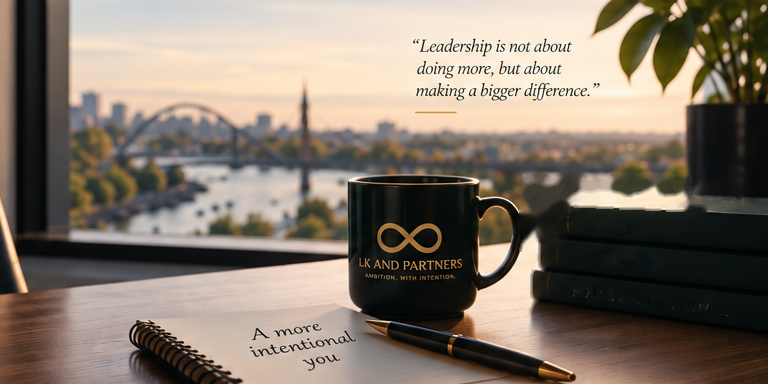
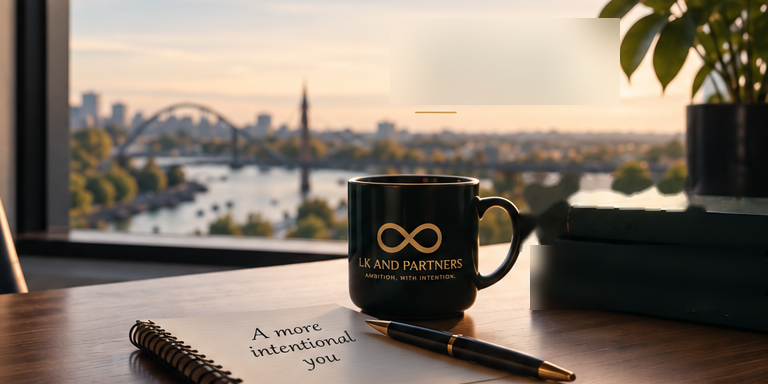
Add files via upload

Changed region(s): [[0.5312, 0.0312, 0.8125, 0.2812], [0.6875, 0.625, 0.7188, 0.8125]]

diff --git a/home.css b/home.css
@@ -1,3 +1,11 @@
 :root{--green:#0b332c;--gold:#d0a14b;--cream:#f5f0e6;--ink:#142823;--line:#ddd4c5}*{box-sizing:border-box}body{margin:0;color:var(--ink);background:#faf7f0;font-family:Arial,Helvetica,sans-serif}a{color:inherit}.header{height:64px;background:#fff;display:flex;align-items:center;padding:0 5%;justify-content:space-between;border-bottom:1px solid #eee}.logo{width:330px;display:block;overflow:visible}.logo img{display:block;width:100%;height:auto}.header nav{display:flex;align-items:center;gap:26px;font-size:12px}.header nav a{text-decoration:none;white-space:nowrap}.header nav .active{color:#b27d27;border-bottom:2px solid var(--gold);padding-bottom:7px}.header nav .work{background:var(--green);color:white;padding:12px 20px}.menu{display:none;border:0;background:transparent;font-size:24px}.hero{height:305px;position:relative;background:url('assets/hero-office.png') center 54%/cover no-repeat;overflow:hidden}.heroShade{position:absolute;inset:0;background:linear-gradient(90deg,rgba(4,39,33,.88) 0%,rgba(4,39,33,.79) 22%,rgba(4,39,33,.54) 38%,rgba(4,39,33,.20) 52%,rgba(4,39,33,0) 66%)}.heroText{position:relative;z-index:2;color:white;padding:28px 5%;width:72%}.heroQuote{position:absolute;z-index:2;right:6%;top:26px;margin:0;color:#142823;font-family:Georgia,'Times New Roman',serif;font-style:italic;font-size:16px;line-height:1.28;text-align:left;text-shadow:0 1px 10px rgba(255,255,255,.5)}.heroQuote:after{content:"";display:block;width:46px;border-bottom:2px solid var(--gold);margin-top:9px}.kicker{font-size:10px;font-weight:700;letter-spacing:1.7px;color:var(--gold)}h1,h2,.tag,.benefits{font-family:Georgia,'Times New Roman',serif}.hero h1{margin:7px 0 7px;font-weight:400;font-size:50px;line-height:.94;letter-spacing:-1.3px;white-space:nowrap}.hero h1 span{color:white}.hero h1 strong{color:#e0b45d;font-weight:400;margin-left:.16em}.tag{font-size:20px;margin-bottom:18px}.benefits{display:flex;white-space:nowrap;margin-bottom:18px;font-size:14px}.benefits span{padding:0 18px;border-right:1px solid var(--gold)}.benefits span:first-child{padding-left:0}.benefits span:last-child{border:0}.buttons{display:flex;gap:18px}.buttons a{text-decoration:none;font-size:12px;font-weight:700;padding:11px 22px}.primary{background:#e3b85e;color:#10231f}.secondary{border:1px solid white;color:white}.services{display:grid;grid-template-columns:repeat(3,1fr);background:#fbf8f1;border-bottom:1px solid var(--line)}.services article{min-height:136px;padding:15px 4.6%;display:grid;grid-template-columns:118px 1fr;gap:17px;align-items:center;border-right:1px solid var(--line)}.services article:last-child{border:0}.services img{width:118px;height:104px;object-fit:cover}.services h2{font-weight:400;font-size:20px;line-height:1.08;margin:0 0 5px}.services p{font-size:11.5px;line-height:1.35;margin:0 0 7px}.services a{font-size:12px;text-decoration:none;border-bottom:1px solid var(--gold);padding-bottom:2px}.proof{background:var(--cream);padding:18px 4.8%;display:grid;grid-template-columns:1.05fr repeat(3,1fr) .72fr;gap:10px;min-height:200px}.intro h2{font-weight:400;font-size:34px;line-height:1;margin:6px 0 11px}.intro p{font-size:11px;line-height:1.35;margin:0}.quote{background:#fff9;padding:11px;display:flex;flex-direction:column;height:100%}.qtop{display:grid;grid-template-columns:60px 1fr;gap:9px}.quote img{width:60px;height:60px;border-radius:50%;object-fit:cover}.quote blockquote{font-family:Georgia,serif;font-style:italic;font-size:10.5px;line-height:1.35;margin:2px 0}.quote p{font-family:Georgia,serif;font-size:10.5px;line-height:1.3;margin:auto 0 0;padding-top:10px}.quote b{font-size:13px}.rating{border-left:1px solid var(--line);padding-left:18px}.score{font-family:Georgia,serif;font-size:40px;line-height:1.05;margin-top:5px}.recommend{font-family:Georgia,serif;font-size:12px;letter-spacing:.4px;margin-top:4px}.rating p{font-size:10px;line-height:1.3;color:#59635f}.closing{min-height:94px;background:linear-gradient(#0b332ce8,#0b332ce8),url('assets/service-ia.png') center/cover;color:white;display:flex;align-items:center;justify-content:space-between;padding:14px 5%}.closing h2{font-weight:400;font-size:28px;margin:2px 0}.closing p{font-size:12px;margin:0}.closing>a{background:#e3b85e;color:#10231f;text-decoration:none;font-size:12px;padding:11px 26px;min-width:180px;text-align:center}footer{font-size:11px;padding:20px 5%;background:white}footer a{text-decoration:none}
 @media(max-width:1050px) and (min-width:761px){.header{padding:0 3%}.logo{width:270px}.header nav{gap:13px;font-size:11px}.header nav .work{padding:10px 13px}.heroText{width:78%;padding-left:4%}.heroQuote{right:3%;font-size:14px}.hero h1{font-size:43px}.tag{font-size:17px}.benefits{font-size:11.5px}.benefits span{padding:0 10px}.buttons a{padding:10px 16px}.services article{grid-template-columns:90px 1fr;padding:14px 2.5%}.services img{width:90px;height:90px}.services h2{font-size:18px}.proof{padding-left:3%;padding-right:3%}}
 @media(max-width:760px){.header{height:74px;padding:0 5%;position:relative}.logo{width:235px}.menu{display:block}.header nav{display:none;position:absolute;top:74px;left:0;right:0;z-index:10;background:white;padding:20px;flex-direction:column;align-items:flex-start}.header nav.open{display:flex}.hero{height:auto;background:none}.hero:before{content:"";display:block;height:250px;background:url('assets/hero-office.png') center/cover}.heroShade{display:none}.heroQuote{display:none}.heroText{width:100%;background:var(--green);padding:38px 7% 42px}.hero h1{font-size:46px;white-space:normal}.hero h1 strong{display:block;margin-left:0}.tag{font-size:19px}.benefits{display:grid;grid-template-columns:1fr 1fr;white-space:normal;gap:10px 0}.benefits span{border:0;padding:0 10px}.benefits span:nth-child(odd){padding-left:0;border-right:1px solid var(--gold)}.buttons{flex-wrap:wrap}.services,.proof{grid-template-columns:1fr}.services article{border-right:0;border-bottom:1px solid var(--line);padding:20px 6%}.proof{padding:28px 6%}.rating{border-left:0;border-top:1px solid var(--line);padding:18px 0 0}.closing{align-items:flex-start;flex-direction:column;gap:14px;padding:25px 6%}}
+/* V6 verified refinements */
+.logo{width:350px;max-width:31vw;overflow:visible;flex:0 0 auto}
+.logo img{width:100%;max-width:100%;overflow:visible}
+.hero{background-position:center 50%}
+.heroQuote{display:block;right:6.5%;top:28px;font-size:17px;line-height:1.28;color:#142823;text-shadow:0 1px 12px rgba(255,255,255,.75)}
+.quote{display:grid;grid-template-rows:1fr auto}
+.quote>p{margin:0;padding-top:10px;min-height:44px;align-self:end}
+@media(max-width:1050px) and (min-width:761px){.logo{width:300px;max-width:29vw}.heroQuote{right:3.5%;font-size:14px}}

diff --git a/index.html b/index.html
@@ -1,7 +1,7 @@
-<!doctype html><html lang="en"><head><meta charset="utf-8"><meta name="viewport" content="width=device-width,initial-scale=1"><title>LK & Partners | Executive Coaching & Leadership Development</title><meta name="description" content="Executive coaching, leadership and team development, and Intentional Ambition from LK & Partners."><link rel="stylesheet" href="home.css"></head><body>
+<!doctype html><html lang="en"><head><meta charset="utf-8"><meta name="viewport" content="width=device-width,initial-scale=1"><title>LK & Partners | Executive Coaching & Leadership Development</title><meta name="description" content="Executive coaching, leadership and team development, and Intentional Ambition from LK & Partners."><link rel="stylesheet" href="home.css?v=6.1"></head><body>
 <header class="header"><a class="logo" href="index.html"><img src="assets/logo.svg" alt="LK & Partners"></a><button class="menu" aria-label="Menu">☰</button><nav><a class="active" href="index.html">Home</a><a href="about.html">About</a><a href="services.html">Our Services</a><a href="intentional-ambition.html">Intentional Ambition</a><a href="contact.html">Get in Touch</a><a class="work" href="contact.html">Work With Us →</a></nav></header>
 <main>
-<section class="hero"><div class="heroShade"></div><div class="heroText"><div class="kicker">EXECUTIVE COACHING &amp; LEADERSHIP DEVELOPMENT</div><h1><span>AMBITION,</span><strong>WITH INTENTION.</strong></h1><div class="tag">Achieve more. Lead better. Live more intentionally.</div><div class="benefits"><span>More Clarity</span><span>More Focus</span><span>More Energy</span><span>A More Intentional You</span></div><div class="buttons"><a class="primary" href="services.html">Explore Our Services →</a><a class="secondary" href="about.html">About LK &amp; Partners</a></div></div></section>
+<section class="hero"><div class="heroShade"></div><blockquote class="heroQuote">“Leadership is not about<br>doing more, but about<br>making a bigger difference.”</blockquote><div class="heroText"><div class="kicker">EXECUTIVE COACHING &amp; LEADERSHIP DEVELOPMENT</div><h1><span>AMBITION,</span><strong>WITH INTENTION.</strong></h1><div class="tag">Achieve more. Lead better. Live more intentionally.</div><div class="benefits"><span>More Clarity</span><span>More Focus</span><span>More Energy</span><span>A More Intentional You</span></div><div class="buttons"><a class="primary" href="services.html">Explore Our Services →</a><a class="secondary" href="about.html">About LK &amp; Partners</a></div></div></section>
 <section class="services"><article><img src="assets/service-coaching.png" alt=""><div><h2>Executive Coaching</h2><p>One-to-one coaching for ambitious leaders who want to be more effective, fulfilled and intentional.</p><a href="services.html">Find out more →</a></div></article><article><img src="assets/service-team.png" alt=""><div><h2>Leadership &amp; Team Development</h2><p>Bespoke programmes that build stronger leaders, higher-performing teams and healthier cultures.</p><a href="services.html#leadership">Find out more →</a></div></article><article><img src="assets/service-ia.png" alt=""><div><h2>Intentional Ambition</h2><p>A practical digital programme to help you gain clarity, focus and momentum in your leadership and life.</p><a href="intentional-ambition.html">Find out more →</a></div></article></section>
 <section class="proof"><div class="intro"><div class="kicker">TRUSTED BY LEADERS ACROSS SECTORS</div><h2>Real people.<br>Real impact.</h2><p>We’re proud to support leaders and teams in private, public, charitable and education sectors to achieve more, lead better and live more intentionally.</p></div><article class="quote"><div class="qtop"><img src="assets/andrea.png" alt="Andrea Bell"><blockquote>“My coaching and mentoring sessions with Lee have been invaluable. His knowledge and advice have given me the confidence to secure my first headship.”</blockquote></div><p><b>Andrea Bell</b><br>Principal</p></article><article class="quote"><div class="qtop"><img src="assets/angelo.png" alt="Angelo Calix"><blockquote>“Coaching has helped me identify root causes to my professional barriers and develop my own solutions.”</blockquote></div><p><b>Angelo Calix</b><br>Director of Operations, KM2 Solutions</p></article><article class="quote"><div class="qtop"><img src="assets/moira.png" alt="Moira Green"><blockquote>“LK and Partners have been instrumental in supporting my leadership team to flourish.”</blockquote></div><p><b>Moira Green</b><br>Executive Principal</p></article><aside class="rating"><div class="kicker">PARTICIPANT FEEDBACK</div><div class="score">100%</div><div class="recommend">WOULD RECOMMEND OUR SERVICES</div><p>Based on participant feedback</p></aside></section>
 <section class="closing"><div><div class="kicker">A MORE INTENTIONAL FUTURE</div><h2>Better leaders. Brighter futures.</h2><p>Let’s work together to achieve more, lead better and live more intentionally.</p></div><a href="contact.html">Get in Touch →</a></section>
